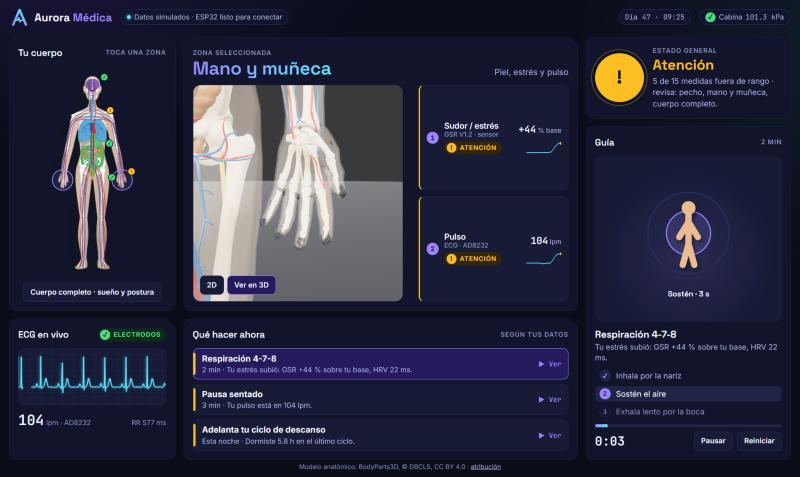
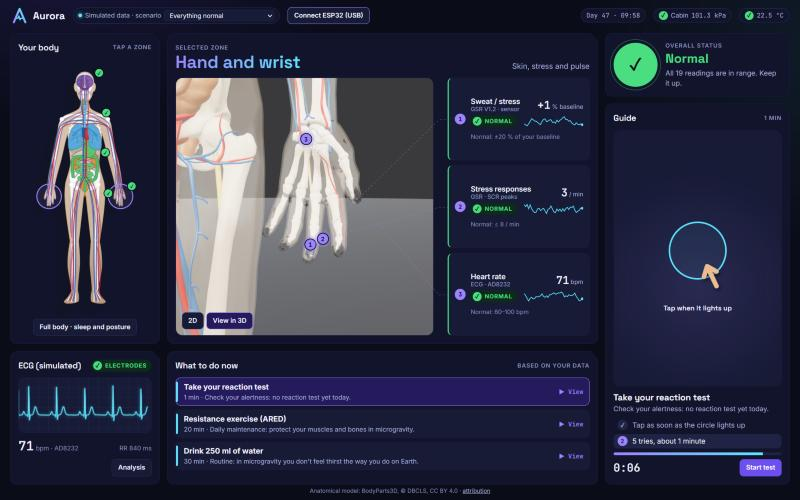
Retake 3D screenshots in English and link the live demo

diff --git a/README.md b/README.md
@@ -14,6 +14,12 @@
   <img alt="Tests: 32 passing" src="https://img.shields.io/badge/tests-32%20passing-3fcf8e">
 </p>
 
+<p align="center">
+  <a href="https://jmmt18.github.io/Aurora-Health-Monitor/"><b>▶ Try the live demo</b></a> &nbsp;·&nbsp;
+  <a href="demo/video/aurora-demo.mp4"><b>Watch the video</b></a> &nbsp;·&nbsp;
+  <a href="demo"><b>Screenshots</b></a>
+</p>
+
 ![Aurora web app](demo/screenshots/01_dashboard.jpg)
 
 ## Contents
@@ -42,7 +48,8 @@ On a long mission there is no doctor on board, and a message to Earth can take m
 
 ## Demo
 
-**[▶ Watch the demo video](demo/video/aurora-demo.mp4)**
+- **[▶ Live demo](https://jmmt18.github.io/Aurora-Health-Monitor/)**: runs in the browser with simulated data, nothing to install. In Chrome or Edge it can also connect to the ESP32 over USB.
+- **[▶ Demo video](demo/video/aurora-demo.mp4)**
 
 | Prototype | Cardiac analysis | Fall detected |
 |---|---|---|
@@ -120,7 +127,7 @@ npm test         # 32 checks of the HRV / QTc / EDR / sEMG formulas
 ```
 
 - **With the ESP32:** open the app in **Chrome or Edge** (Web Serial), close any other serial monitor, and click **Connect ESP32 (USB)**.
-- **Without hardware:** the app runs on simulated data. Pick a situation in the **Simulated data · scenario** menu.
+- **Without hardware:** the app runs on simulated data (also online at the [live demo](https://jmmt18.github.io/Aurora-Health-Monitor/)). Pick a situation in the **Simulated data · scenario** menu.
 
 ## Build and flash the firmware
 

diff --git a/demo/README.md b/demo/README.md
@@ -12,7 +12,7 @@ Photos and screenshots of Aurora running. All the screenshots below use the simu
 
 ## Demo video
 
-**[▶ Watch the demo video](video/aurora-demo.mp4)** (34 MB, plays on GitHub).
+**[▶ Watch the demo video](video/aurora-demo.mp4)** (34 MB, plays on GitHub). To try the app yourself, open the **[live demo](https://jmmt18.github.io/Aurora-Health-Monitor/)**.
 
 ## The prototype
 
@@ -40,7 +40,7 @@ Each zone lists what is measured there, with the sensor, a trend line and a plai
 
 ## Body zones, 3D
 
-The same zones on the BodyParts3D anatomical model (CC BY 4.0). These six were captured on an earlier build whose interface was still in Spanish; the 3D view is the same.
+The same zones on the BodyParts3D anatomical model (CC BY 4.0). The numbered markers show where each reading is taken.
 
 | Head | Chest | Hand and wrist |
 |---|---|---|
